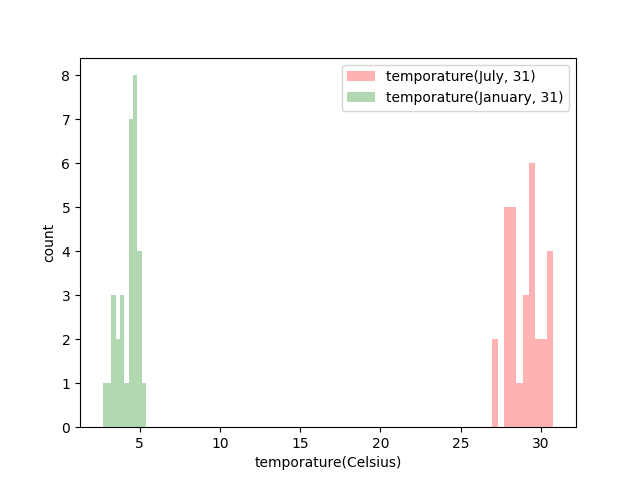
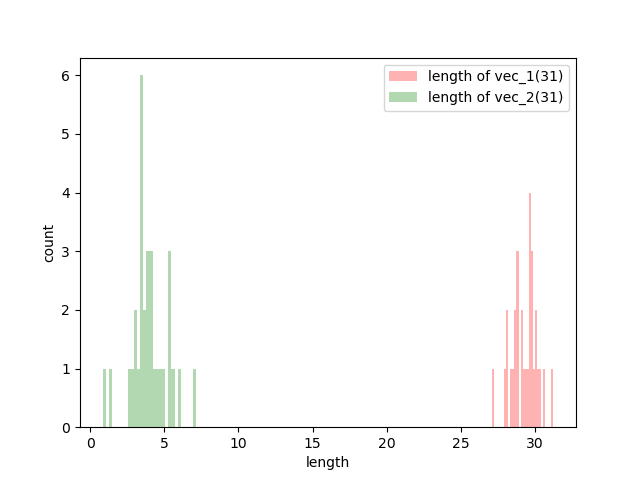
Rename some variables to make them suit most cases.

diff --git a/py-files/plot_hist.py b/py-files/plot_hist.py
@@ -1,28 +1,28 @@
 import matplotlib.pyplot as plt
 import numpy as np
 
-def plot_error_hist(temporature_Jul, temporature_Jan, fileName="hist.png"):
+def plot_error_hist(vec_1, vec_2, fileName="hist.png"):
     """
     inputs:
-        temporature_Jul (list): A list float values.
-        temporature_Jan (list): A list float values.
+        vec_1 (list): A list float values.
+        vec_2 (list): A list float values.
     outputs:
         
     """
     thresh = 40.0
-    kwargs = dict(alpha=0.3, bins=10) # alpha controls transparency
-    plt.hist([e for e in temporature_Jul if e<thresh], **kwargs, color='r', label=f'temporature(July, {len(temporature_Jul)})')
-    plt.hist(temporature_Jan, **kwargs, color='g', label=f'temporature(January, {len(temporature_Jan)})')
-    plt.gca().set(xlabel='temporature(Celsius)', ylabel='count') # gca stands for "get current axes"
+    kwargs = dict(alpha=0.3, bins=30) # alpha controls transparency
+    plt.hist([e for e in vec_1 if e<thresh], **kwargs, color='r', label=f'length of vec_1({len(vec_1)})')
+    plt.hist(vec_2, **kwargs, color='g', label=f'length of vec_2({len(vec_2)})')
+    plt.gca().set(xlabel='length', ylabel='count') # gca stands for "get current axes"
     plt.legend()
-    plt.savefig(f"results/{fileName}")
+    plt.savefig(f"{fileName}")
     plt.close()
     
 if __name__=="__main__":
     sigma = 1
-    mu_Jul = 29
-    temporature_Jul = np.random.normal(mu_Jul, sigma, 30).tolist()
-    temporature_Jul.append(44) # append an outlier
-    mu_Jan = 4
-    temporature_Jan = np.random.normal(mu_Jan, sigma, 31).tolist()
-    plot_error_hist(temporature_Jul, temporature_Jan, fileName="hist.png")
+    mu_1 = 29
+    vec_1 = np.random.normal(mu_1, sigma, 30).tolist()
+    vec_1.append(44) # append an outlier
+    mu_2 = 4
+    vec_2 = np.random.normal(mu_2, sigma, 31).tolist()
+    plot_error_hist(vec_1, vec_2, fileName="hist.png")
